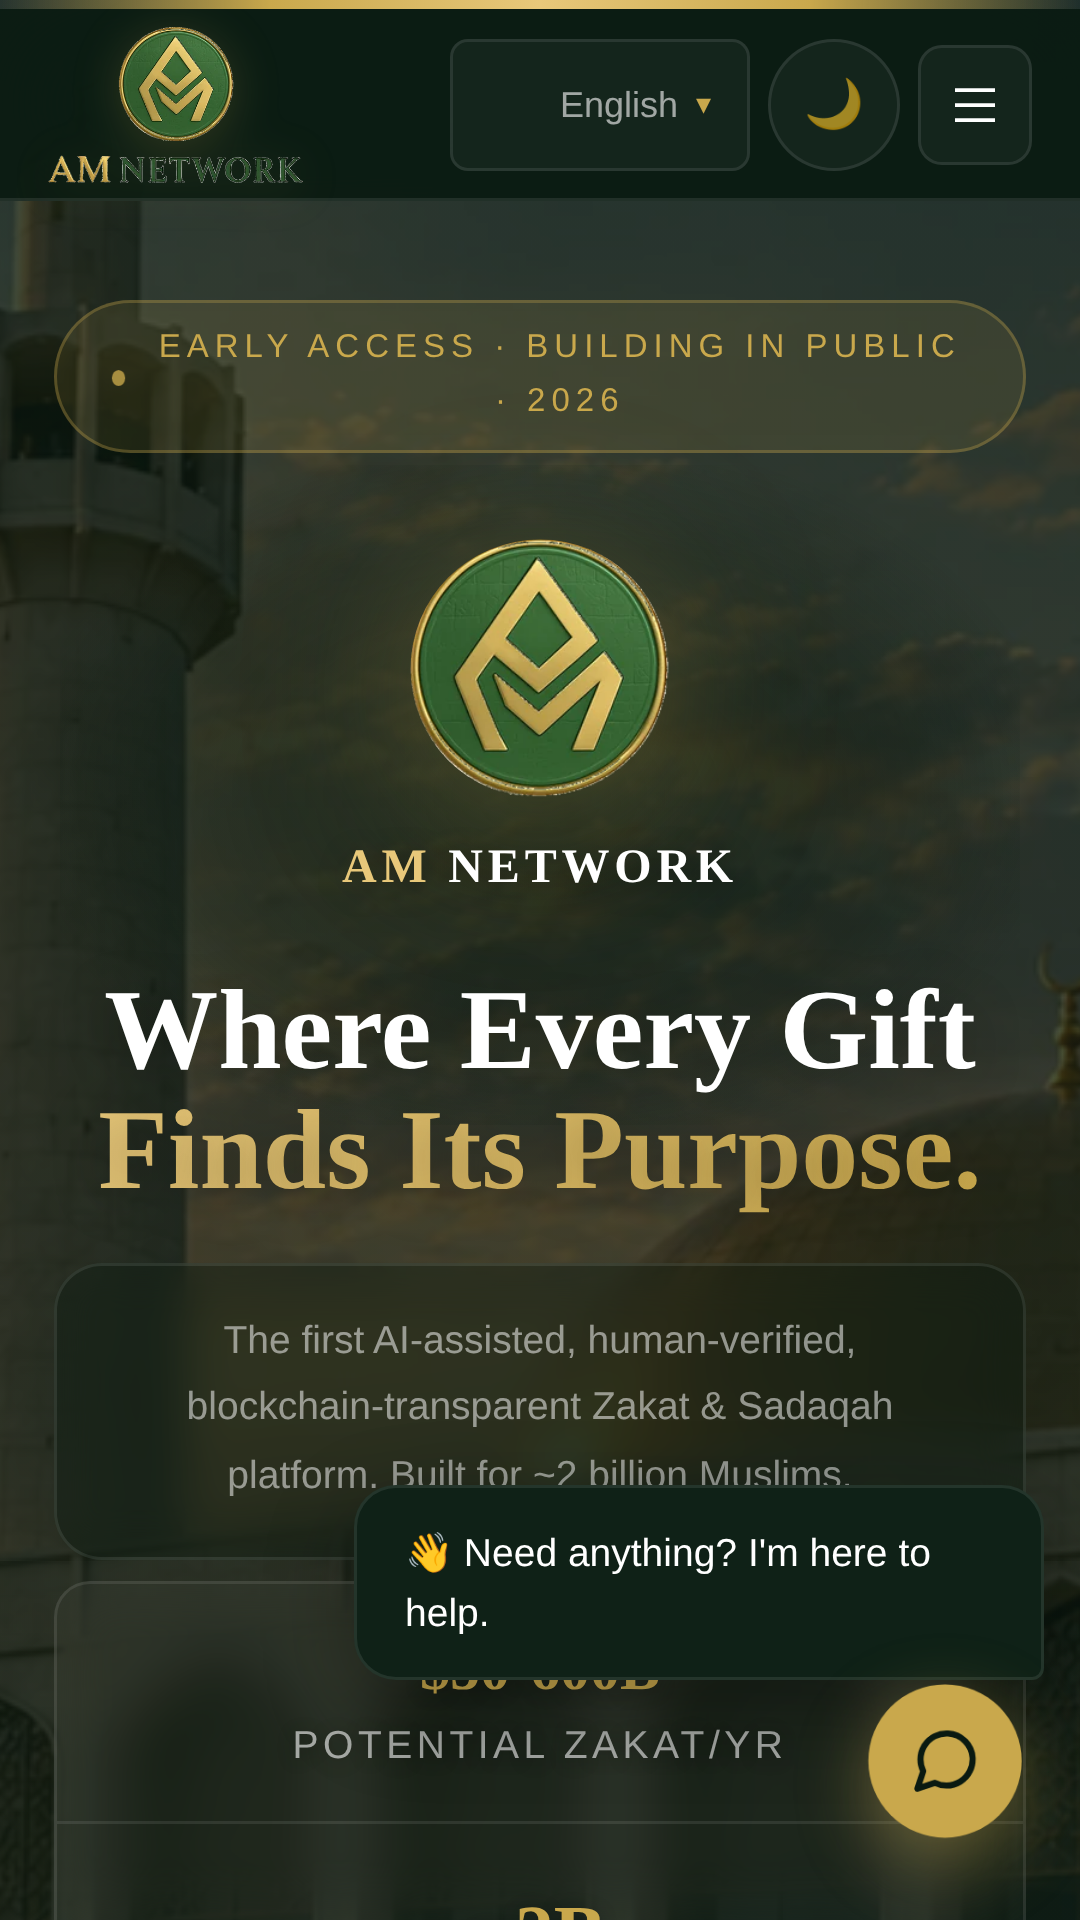
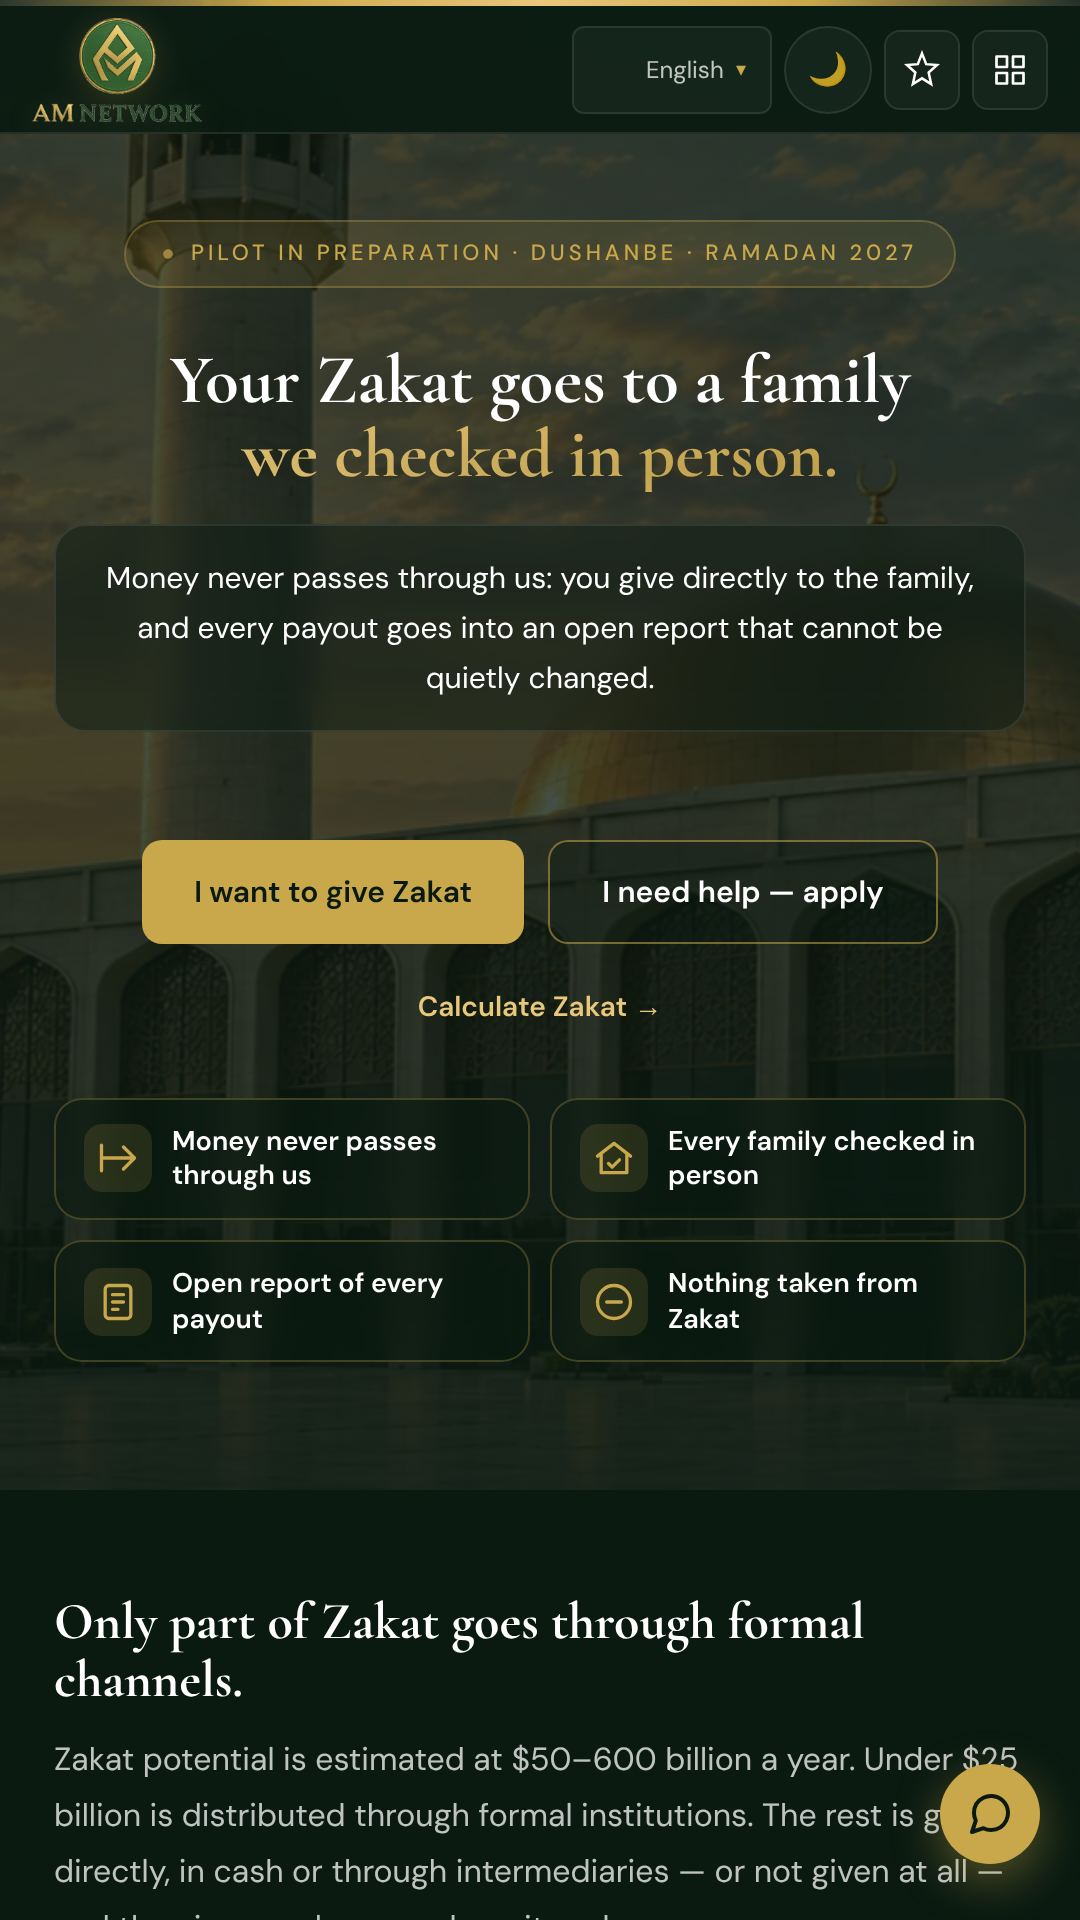
New link-preview image and app screenshots for the verification model
Claude-Session: https://claude.ai/code/session_011fonXb9wpa7VmvcQM5MH6j

diff --git a/sw.js b/sw.js
@@ -1,4 +1,4 @@
-const CACHE = 'amnetwork-v57-verification-model';
+const CACHE = 'amnetwork-v58-og-v3';
 // Must match QURAN_OFFLINE_CACHE in quran/index.html byte-for-byte — that
 // page is the only writer of this bucket (a per-surah "save for offline"
 // button). It is user data (surahs someone explicitly chose to keep) and
